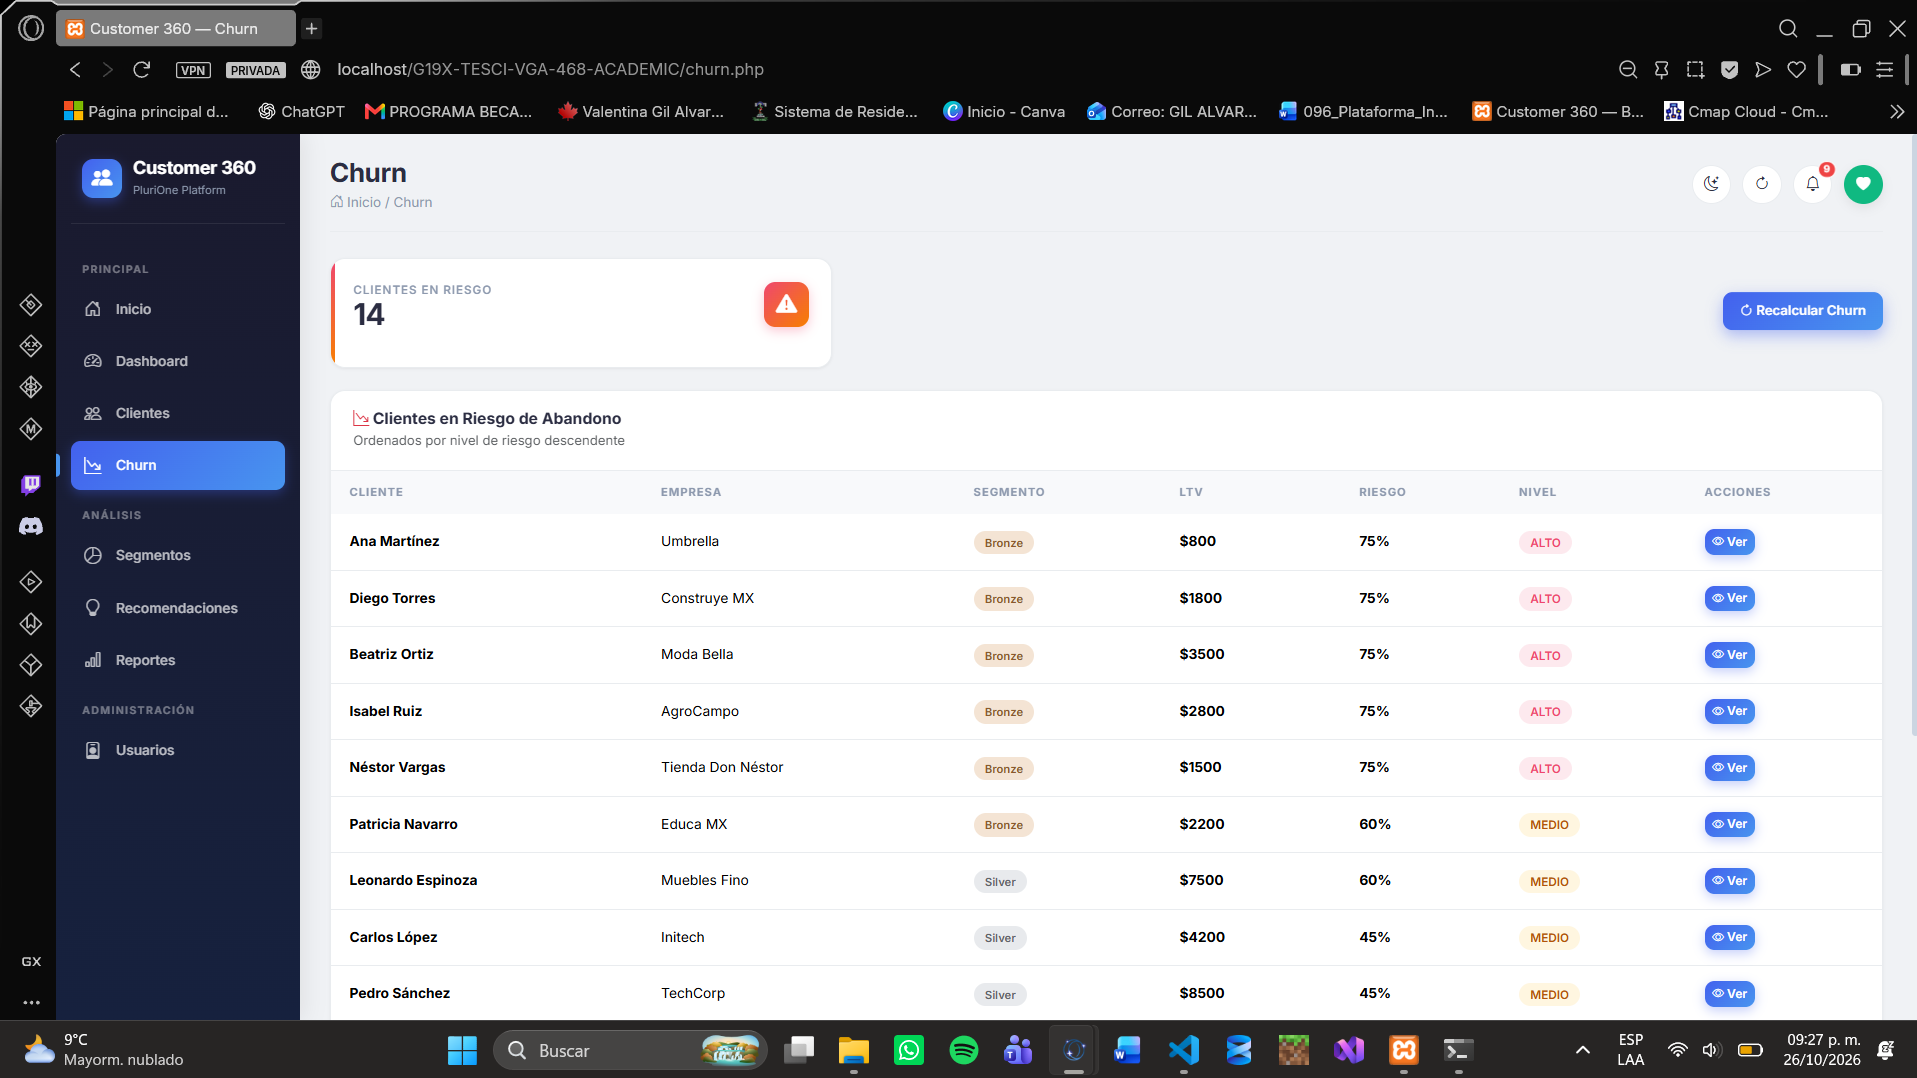
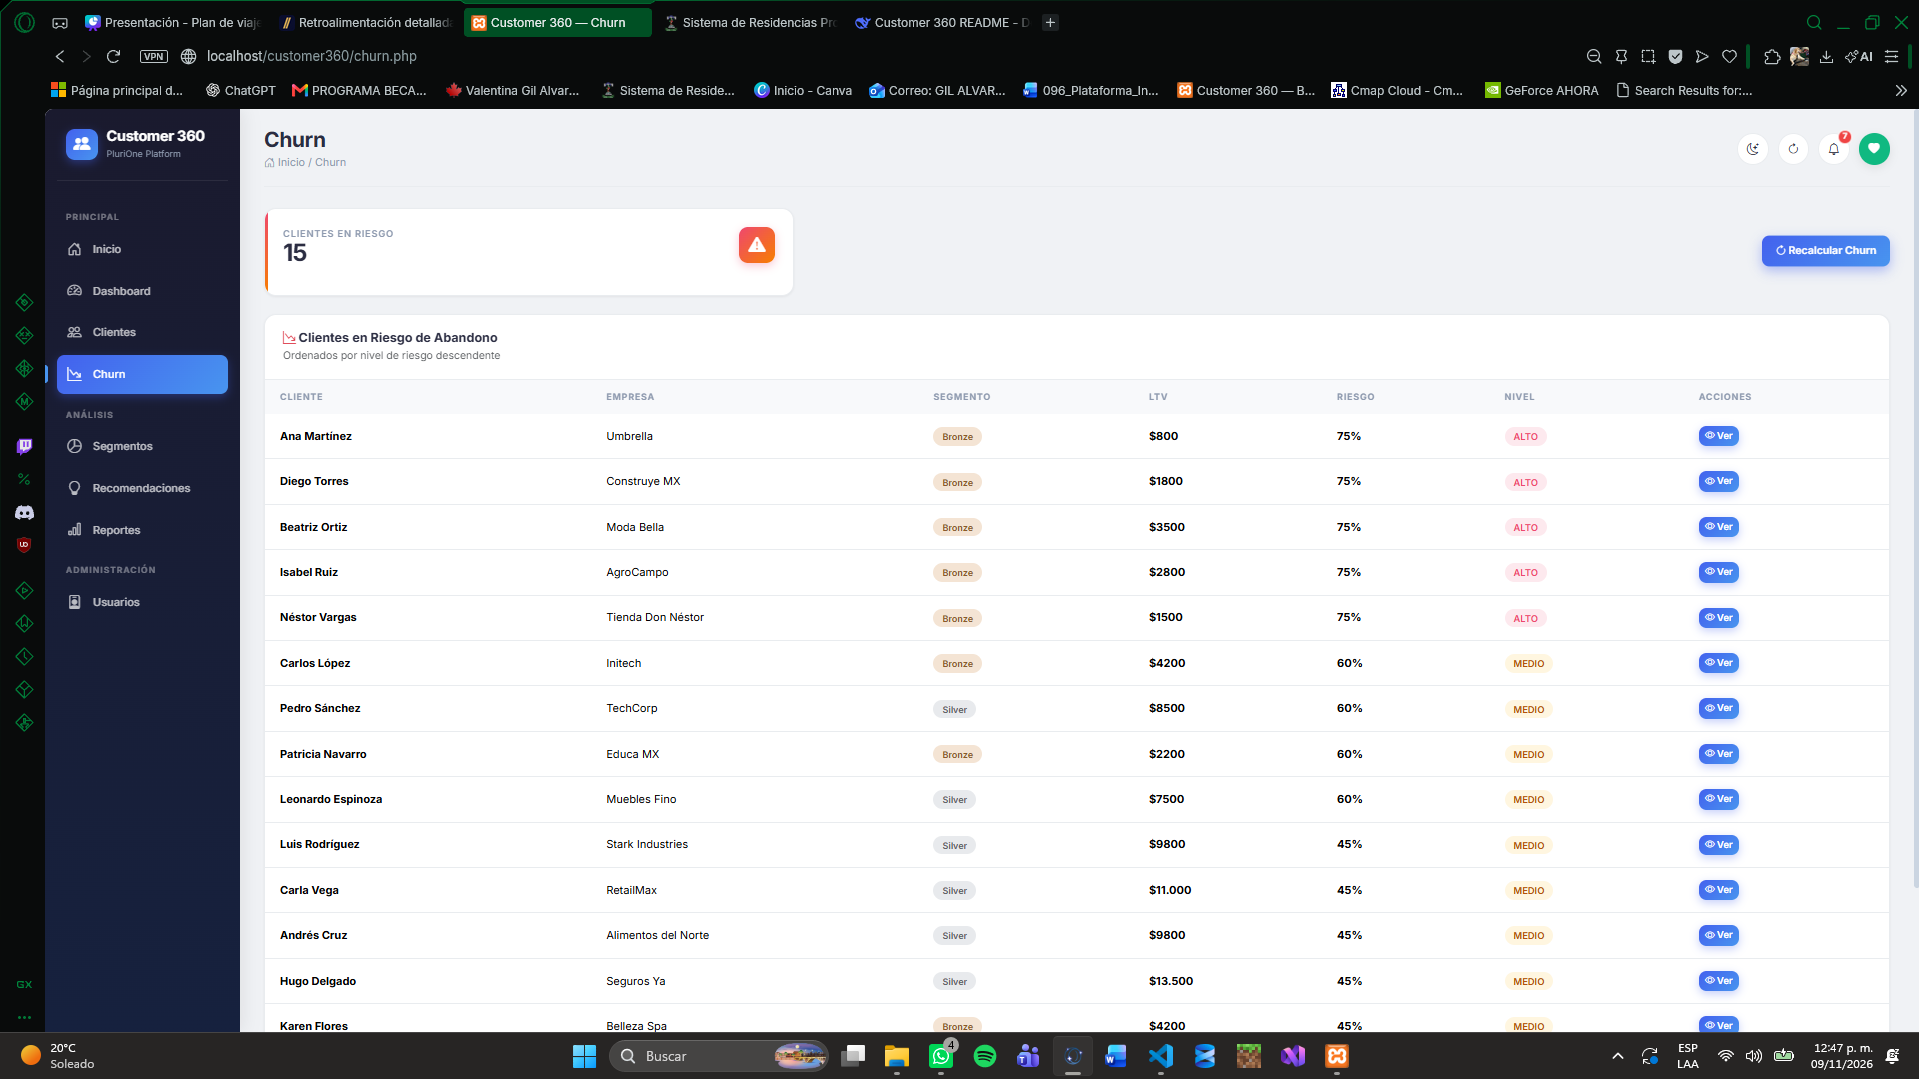
Corregí el enlace de mi bitácora, la captura del recálculo y los nombres del README

diff --git a/docs/MVP.md b/docs/MVP.md
@@ -1,6 +1,6 @@
 # 🚀 MVP — Minimum Viable Product
 
-## Customer 360 — Versión 1.3
+## Customer 360 — Versión 1.4
 
 ---
 
@@ -95,7 +95,7 @@ El **MVP** de Customer 360 es la versión más pequeña funcional que:
 - [x] Recomendaciones con reglas (fallback) funcionan
 - [x] Notificaciones con enlaces correctos
 
-> 📄 **Evidencia:** Puedes consultar la bitácora completa de esta instalación desde cero en [docs/evidencias/instalacion-limpia-2026-10-27.md](evidencias/instalacion-limpia-2026-10-27.md).
+> 📄 **Evidencia:** Puedes consultar la bitácora completa de esta instalación desde cero en [docs/evidencias/instalacion-limpia-2026-11-04.md](evidencias/instalacion-limpia-2026-11-04.md).
 
 ### 6. Definition of Done (DoD)
 
@@ -119,8 +119,7 @@ Cada historia se considera **Done** cuando:
 | 3 | Manual de instalación | README.md | ✅ |
 | 4 | Manual de usuario | docs/manual-usuario.md | ✅ |
 | 5 | Documentación técnica | docs/*.md | ✅ |
-| 6 | Demo funcional | URL en vivo (InfinityFree) | ⏳ Pendiente |
-| 7 | Presentación | PPT | ⏳ Pendiente |
+
 
 ---
 
@@ -136,20 +135,7 @@ Cada historia se considera **Done** cuando:
 
 ---
 
-### 9. Roadmap Post-MVP
-
-| Fase | Duración estimada | Funcionalidad |
-|------|:-----------------:|--------------|
-| v2.1 | 4 semanas | SSO con Entra ID |
-| v2.2 | 4 semanas | Integración real con CRM/ERP |
-| v2.3 | 6 semanas | Power BI embebido + analytics avanzado |
-| v2.4 | 4 semanas | App móvil (PWA) + notificaciones push |
-| v2.5 | 2 semanas | Paginación server-side + filtros avanzados |
-| v2.6 | 4 semanas | Multi-idioma + chatbot IA |
-
----
-
-### 10. Conclusión
+### 9. Conclusión
 
 El MVP de Customer 360 entrega **valor inmediato** al:
 

diff --git a/README.md b/README.md
@@ -399,12 +399,12 @@ G19X-TESCI-VGA-468-ACADEMIC/
 │   ├── plan-pruebas.md
 │   ├── changelog.md
 │   ├── evidencias/
-│   │   └── instalacion-limpia-2026-11-04
+│   │   └── instalacion-limpia-2026-11-04.md
 │   └── screenshots/
 │       ├──01-dashboard.png
 │       ├──02-role-viewer.png
 │       ├──03-recalcular-churn.png
-│       ├──04-recomendaciones.png
+│       ├──04-recomendaciones-ia.png
 │       ├──05-notificaciones.png
 │       └──06-perfil-avatar.png
 │
